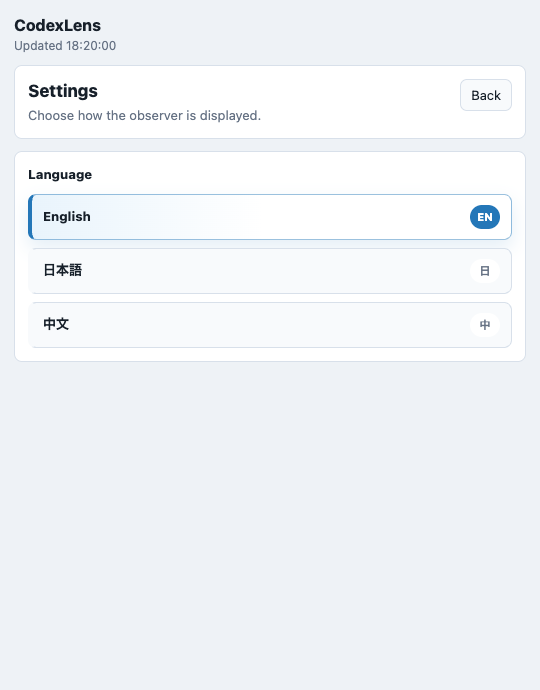
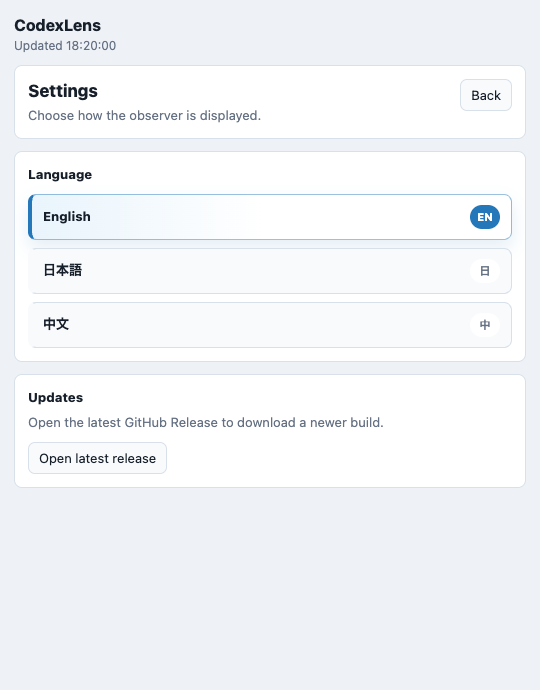
Support unsigned releases without Apple secrets

Changed region(s): [[0.0593, 0.5478, 0.7111, 0.6696]]

diff --git a/src/renderer/renderer.js b/src/renderer/renderer.js
@@ -33,6 +33,9 @@ const I18N = {
     settingsTitle: 'Settings',
     settingsDescription: 'Choose how the observer is displayed.',
     languageTitle: 'Language',
+    updatesTitle: 'Updates',
+    updatesDescription: 'Open the latest GitHub Release to download a newer build.',
+    openLatestRelease: 'Open latest release',
     back: 'Back',
     status: 'Status',
     job: 'Job',
@@ -79,6 +82,9 @@ const I18N = {
     settingsTitle: '設定',
     settingsDescription: 'Observerの表示方法を選択します。',
     languageTitle: '言語',
+    updatesTitle: 'アップデート',
+    updatesDescription: '最新版を入れる場合はGitHub Releaseを開いてダウンロードしてください。',
+    openLatestRelease: '最新版Releaseを開く',
     back: '戻る',
     status: '状態',
     job: 'ジョブ',
@@ -125,6 +131,9 @@ const I18N = {
     settingsTitle: '设置',
     settingsDescription: '选择观察器的显示方式。',
     languageTitle: '语言',
+    updatesTitle: '更新',
+    updatesDescription: '打开最新的 GitHub Release 下载新版构建。',
+    openLatestRelease: '打开最新 Release',
     back: '返回',
     status: '状态',
     job: '任务',
@@ -215,6 +224,7 @@ const elements = {
   backToRuns: document.getElementById('back-to-runs'),
   appViews: Array.from(document.querySelectorAll('.app-view')),
   settingsView: document.getElementById('settings-view'),
+  openLatestRelease: document.getElementById('open-latest-release'),
   filterButtons: Array.from(document.querySelectorAll('.filter-button')),
   runFilter: document.getElementById('run-filter'),
   languageButtons: Array.from(document.querySelectorAll('.language-button'))
@@ -532,6 +542,9 @@ elements.settings.addEventListener('click', () => {
 elements.backToRuns.addEventListener('click', () => {
   currentView = 'runs';
   render();
+});
+elements.openLatestRelease.addEventListener('click', () => {
+  window.observer.openLatestRelease();
 });
 for (const button of elements.filterButtons) {
   button.addEventListener('click', () => {

diff --git a/src/main.js b/src/main.js
@@ -7,6 +7,7 @@ const { getSnapshot } = require('./observer');
 
 const APP_NAME = 'CodexLens';
 const TRAY_GUID = 'bfe88412-57a8-4122-b4dd-e66cc9d62c9c';
+const LATEST_RELEASE_URL = 'https://github.com/Yukhy/codexlens/releases/latest';
 
 let tray = null;
 let window = null;
@@ -78,6 +79,7 @@ function createTray() {
   tray.setToolTip(APP_NAME);
   tray.setContextMenu(Menu.buildFromTemplate([
     { label: `Show ${APP_NAME}`, click: toggleWindow },
+    { label: 'Check for Updates...', click: () => shell.openExternal(LATEST_RELEASE_URL) },
     { type: 'separator' },
     { role: 'quit' }
   ]));
@@ -95,6 +97,11 @@ ipcMain.handle('observer:openPath', async (_event, targetPath) => {
 ipcMain.handle('observer:showItemInFolder', async (_event, targetPath) => {
   if (!targetPath || typeof targetPath !== 'string') return { ok: false, error: 'Invalid path' };
   shell.showItemInFolder(targetPath);
+  return { ok: true };
+});
+
+ipcMain.handle('observer:openLatestRelease', async () => {
+  await shell.openExternal(LATEST_RELEASE_URL);
   return { ok: true };
 });
 

diff --git a/src/renderer/index.html b/src/renderer/index.html
@@ -70,6 +70,12 @@
             </button>
           </div>
         </div>
+
+        <div class="settings-section">
+          <h3 data-i18n="updatesTitle">Updates</h3>
+          <p class="settings-copy" data-i18n="updatesDescription">Open the latest GitHub Release to download a newer build.</p>
+          <button id="open-latest-release" class="secondary-button" type="button" data-i18n="openLatestRelease">Open latest release</button>
+        </div>
       </section>
     </main>
     <script src="./renderer.js"></script>

diff --git a/src/renderer/styles.css b/src/renderer/styles.css
@@ -505,6 +505,11 @@ p {
   font-weight: 760;
 }
 
+.settings-copy {
+  margin: 6px 0 10px;
+  color: var(--muted);
+}
+
 .language-options {
   display: grid;
   gap: 8px;

diff --git a/src/preload.js b/src/preload.js
@@ -5,5 +5,6 @@ const { contextBridge, ipcRenderer } = require('electron');
 contextBridge.exposeInMainWorld('observer', {
   getSnapshot: () => ipcRenderer.invoke('observer:getSnapshot'),
   openPath: (targetPath) => ipcRenderer.invoke('observer:openPath', targetPath),
-  showItemInFolder: (targetPath) => ipcRenderer.invoke('observer:showItemInFolder', targetPath)
+  showItemInFolder: (targetPath) => ipcRenderer.invoke('observer:showItemInFolder', targetPath),
+  openLatestRelease: () => ipcRenderer.invoke('observer:openLatestRelease')
 });

diff --git a/docs/distribution.md b/docs/distribution.md
@@ -4,7 +4,9 @@ This document describes how to ship CodexLens as a downloadable macOS app.
 
 ## Short Answer
 
-Apple Developer ID signing and notarization are not hard once the credentials exist. The first setup is the slow part:
+CodexLens can be released without Apple Developer secrets. The default release path publishes unsigned macOS DMG/ZIP artifacts from GitHub Actions.
+
+Optional Apple Developer ID signing and notarization can be added later. Once the credentials exist, the release workflow automatically switches to the signed path. The first setup is the slow part:
 
 1. Join the Apple Developer Program.
 2. Create and export a `Developer ID Application` certificate.
@@ -24,7 +26,7 @@ References:
 
 ## Local Unsigned Build
 
-Use this for packaging checks before touching Apple credentials:
+Use this for packaging checks and for Apple-secrets-free development:
 
 ```bash
 npm ci
@@ -34,7 +36,28 @@ npm run dist:mac:unsigned
 
 The generated app and installers are written to `release/`. This build is intentionally unsigned and not notarized.
 
-## GitHub Secrets
+## Release Without Apple Secrets
+
+No Apple secrets are required for the default release flow.
+
+Create a version tag:
+
+```bash
+git tag v0.1.0
+git push origin v0.1.0
+```
+
+The `Release` GitHub Action detects that Apple signing/notarization secrets are absent and runs:
+
+```bash
+npm run release:mac:unsigned -- --x64 --arm64
+```
+
+This publishes unsigned DMG/ZIP assets to GitHub Releases. Users may see macOS Gatekeeper warnings because the artifacts are not signed or notarized.
+
+## Optional Apple Secrets
+
+Only set these if you want signed and notarized releases later.
 
 Set these in `Settings -> Secrets and variables -> Actions`.
 
@@ -64,7 +87,7 @@ base64 -i "AuthKey_XXXXXXXXXX.p8" | tr -d '\n' | pbcopy
 
 Paste each copied value into the matching GitHub secret.
 
-## Release
+## Signed Release
 
 After the secrets are configured, create a version tag:
 
@@ -75,9 +98,28 @@ git push origin v0.1.0
 
 The `Release` GitHub Action runs tests, builds both Apple Silicon and Intel artifacts, signs them with Developer ID, notarizes them with Apple, staples the notarization ticket, and publishes the assets to GitHub Releases.
 
+If the signing secrets are incomplete, the workflow intentionally falls back to the unsigned release path instead of failing.
+
+## Updates
+
+CodexLens does not enable automatic in-app update installation for unsigned macOS builds.
+
+Reason: both Electron and electron-builder document that macOS automatic updates require a signed app. Unsigned builds can still publish release metadata, but the installed app should not rely on Squirrel.Mac/electron-updater to replace itself.
+
+Current behavior:
+
+- The app has a Settings button for opening the latest GitHub Release.
+- The menu bar context menu also includes `Check for Updates...`.
+- Users download and replace the app manually.
+
+Future signed behavior:
+
+- If Developer ID signing is added later, `electron-updater` can be introduced safely.
+- The existing `dmg` + `zip` targets and GitHub publish configuration are compatible with that future path.
+
 ## Verification
 
-After downloading a release asset, verify it on macOS:
+After downloading a signed release asset, verify it on macOS:
 
 ```bash
 codesign --verify --deep --strict --verbose=2 "/Applications/CodexLens.app"
@@ -102,8 +144,8 @@ brew install --cask codexlens
 
 ## 日本語メモ
 
-簡単かどうかで言うと、初回だけ面倒です。Apple Developer Program、Developer ID Application証明書、notarization用のApple IDまたはApp Store Connect API keyを用意し、GitHub Secretsに登録すれば、その後は `v*` タグをpushするだけで署名済みDMG/ZIPを公開できます。
+Apple Developer Programに入らなくても、未署名DMG/ZIPはGitHub Releasesへ公開できます。Secretsがない場合、Release workflowは失敗せず未署名リリースにフォールバックします。自動インストール型アップデートは署名済みmacOSアプリが前提なので、未署名運用では最新版Releaseを開く手動導線にしています。
 
 ## 中文备注
 
-整体流程不是每天都要手动做的工作。首次配置 Apple Developer Program、Developer ID Application 证书和 notarization 凭据比较麻烦；配置好 GitHub Secrets 后，推送 `v*` tag 即可自动生成签名并 notarize 的 macOS 发布包。
+即使不加入 Apple Developer Program，也可以通过 GitHub Releases 发布未签名的 DMG/ZIP。没有 Secrets 时，Release workflow 不会失败，而是回退到未签名发布。应用内自动安装更新在 macOS 上需要签名应用，因此未签名发布采用打开最新 GitHub Release 的手动更新方式。

diff --git a/README.md b/README.md
@@ -66,6 +66,8 @@ It does not:
 - inspect the private stdio pipe between Claude Code and `codex mcp-server`
 - modify Claude Code, Codex, MCP configuration, Git repositories, or session files
 
+CodexLens can open the latest GitHub Release in your browser when you click an update link. It does not perform background update checks.
+
 CodexLens may display Codex thread titles from `~/.codex/session_index.jsonl` when they are available, because those titles are useful for identifying a run. Avoid sharing screenshots if thread titles or local paths contain sensitive project names.
 
 ## Requirements
@@ -79,9 +81,9 @@ CodexLens may display Codex thread titles from `~/.codex/session_index.jsonl` wh
 
 ### Downloadable App
 
-The release pipeline is configured for Developer ID-signed and notarized macOS DMG/ZIP artifacts. After the first `v*` release is published, download the DMG from [GitHub Releases](https://github.com/Yukhy/codexlens/releases) and drag CodexLens to Applications.
+The release pipeline publishes unsigned macOS DMG/ZIP artifacts by default, with no Apple Developer secrets required. After the first `v*` release is published, download the DMG from [GitHub Releases](https://github.com/Yukhy/codexlens/releases) and drag CodexLens to Applications.
 
-Release maintainers can follow [Distribution](docs/distribution.md) for Apple Developer ID signing, notarization, and Homebrew cask preparation.
+If Apple Developer ID secrets are configured later, the same workflow switches to signed and notarized artifacts. Release maintainers can follow [Distribution](docs/distribution.md) for unsigned releases, optional signing, update behavior, and Homebrew cask preparation.
 
 ### From Source
 
@@ -113,7 +115,8 @@ npm start
 - Correlation is heuristic-based. CodexLens uses Codex thread ids, working directories, and timing to connect Claude Code tool calls with Codex rollout files.
 - If Codex rollout files do not update while official MCP is running, CodexLens can still show process/repo state but not detailed progress.
 - Subagent counts are only visible when Codex records distinguishable events in rollout files.
-- This is an early macOS-focused app. Signed releases are configured, but they require Apple Developer ID secrets before the first public DMG is published.
+- Default public releases are unsigned unless Apple Developer ID secrets are configured.
+- Automatic in-app update installation is not enabled for unsigned macOS builds. Use Settings or the menu bar context menu to open the latest GitHub Release.
 
 ## Project Structure
 
@@ -125,9 +128,9 @@ npm start
 - `src/cli.js` prints the same snapshot in the terminal.
 - `build/` contains the app icon and macOS signing entitlements.
 - `scripts/capture-screenshots.js` regenerates README screenshots with synthetic demo data.
-- `.github/workflows/release.yml` builds signed and notarized macOS releases from `v*` tags.
+- `.github/workflows/release.yml` builds macOS releases from `v*` tags. It publishes unsigned artifacts by default and switches to signed/notarized artifacts when Apple secrets are present.
 - `docs/assets/` contains screenshots used by this README.
-- `docs/distribution.md` explains Developer ID signing, notarization, and Homebrew cask preparation.
+- `docs/distribution.md` explains unsigned releases, optional Developer ID signing, update behavior, and Homebrew cask preparation.
 - `test/` covers the JSONL parsing, Claude Code extraction, Codex rollout parsing, and correlation logic.
 
 ## Keywords
@@ -211,6 +214,8 @@ CodexLensはローカル専用・読み取り専用です。
 - Claude Codeと `codex mcp-server` のprivate stdio pipeを覗かない
 - Claude Code、Codex、MCP設定、Gitリポジトリ、セッションファイルを変更しない
 
+アップデートリンクをクリックした場合、CodexLensはブラウザで最新GitHub Releaseを開けます。バックグラウンドでの更新確認は行いません。
+
 利用可能な場合、CodexLensは `~/.codex/session_index.jsonl` のCodexスレッドタイトルを表示することがあります。実行中のジョブを識別するためです。スレッドタイトルやローカルパスに機密プロジェクト名が含まれる場合は、スクリーンショット共有に注意してください。
 
 ## 必要環境
@@ -224,9 +229,9 @@ CodexLensはローカル専用・読み取り専用です。
 
 ### ダウンロード版
 
-Developer ID署名とnotarize済みのmacOS DMG/ZIPを作るリリースパイプラインを設定済みです。最初の `v*` リリース公開後は、[GitHub Releases](https://github.com/Yukhy/codexlens/releases) からDMGをダウンロードし、CodexLensをApplicationsへドラッグして使えます。
+Apple Developer Secretsなしで、未署名のmacOS DMG/ZIPを公開するリリースパイプラインを設定済みです。最初の `v*` リリース公開後は、[GitHub Releases](https://github.com/Yukhy/codexlens/releases) からDMGをダウンロードし、CodexLensをApplicationsへドラッグして使えます。
 
-リリース担当者向けのApple Developer ID署名、notarize、Homebrew cask準備は [Distribution](docs/distribution.md) を参照してください。
+将来Apple Developer IDのSecretsを設定した場合は、同じworkflowが署名/notarize済み成果物に切り替わります。未署名リリース、任意の署名、アップデート導線、Homebrew cask準備は [Distribution](docs/distribution.md) を参照してください。
 
 ### ソースから起動
 
@@ -258,7 +263,8 @@ npm start
 - 関連付けはヒューリスティックです。CodexLensはCodex thread id、作業ディレクトリ、時刻を使ってClaude Codeのツール呼び出しとCodex rolloutファイルを紐付けます。
 - 公式MCP実行中にCodex rolloutファイルが更新されない場合、プロセスやリポジトリ状態は表示できますが、詳細な進捗は表示できません。
 - サブエージェント数は、Codexがrolloutファイル内に区別可能なイベントを記録している場合に限って見えます。
-- まだ初期段階のmacOS向けアプリです。署名済みリリースの構成は追加済みですが、最初の公開DMGにはApple Developer IDのSecrets設定が必要です。
+- 公開リリースは、Apple Developer IDのSecretsを設定しない限り未署名です。
+- 未署名macOSビルドでは、アプリ内の自動インストール型アップデートは有効化していません。設定画面またはメニューバーのコンテキストメニューから最新GitHub Releaseを開いてください。
 
 ## プロジェクト構成
 
@@ -270,9 +276,9 @@ npm start
 - `src/cli.js`: 同じスナップショットをターミナルに出力
 - `build/`: アプリアイコンとmacOS署名用entitlements
 - `scripts/capture-screenshots.js`: 合成デモデータでREADME用スクリーンショットを再生成
-- `.github/workflows/release.yml`: `v*` タグから署名済み/notarize済みmacOSリリースを作成
+- `.github/workflows/release.yml`: `v*` タグからmacOSリリースを作成。通常は未署名、Apple Secretsがある場合は署名/notarize済みに切り替え
 - `docs/assets/`: READMEで使うスクリーンショット
-- `docs/distribution.md`: Developer ID署名、notarize、Homebrew cask準備の手順
+- `docs/distribution.md`: 未署名リリース、任意のDeveloper ID署名、アップデート導線、Homebrew cask準備の手順
 - `test/`: JSONLパース、Claude Code抽出、Codex rolloutパース、相関ロジックのテスト
 
 ## キーワード
@@ -356,6 +362,8 @@ CodexLens 是本地专用、只读工具。
 - 检查 Claude Code 和 `codex mcp-server` 之间的私有 stdio pipe
 - 修改 Claude Code、Codex、MCP 配置、Git 仓库或 session 文件
 
+点击更新链接时，CodexLens 可以在浏览器中打开最新的 GitHub Release。它不会在后台检查更新。
+
 如果可用，CodexLens 可能会显示 `~/.codex/session_index.jsonl` 中的 Codex thread title，因为这有助于识别任务。如果 thread title 或本地路径包含敏感项目名称，请谨慎分享截图。
 
 ## 环境要求
@@ -369,9 +377,9 @@ CodexLens 是本地专用、只读工具。
 
 ### 下载版
 
-项目已经配置了用于生成 Developer ID 签名并 notarize 的 macOS DMG/ZIP 发布流程。首次 `v*` release 发布后，可以从 [GitHub Releases](https://github.com/Yukhy/codexlens/releases) 下载 DMG，并将 CodexLens 拖到 Applications 中使用。
+项目已经配置了不需要 Apple Developer Secrets 的 macOS DMG/ZIP 发布流程，默认发布未签名构建。首次 `v*` release 发布后，可以从 [GitHub Releases](https://github.com/Yukhy/codexlens/releases) 下载 DMG，并将 CodexLens 拖到 Applications 中使用。
 
-维护发布流程时，可参考 [Distribution](docs/distribution.md) 了解 Apple Developer ID 签名、notarization 和 Homebrew cask 准备。
+如果以后配置 Apple Developer ID Secrets，同一 workflow 会切换为签名并 notarize 的构建。未签名发布、可选签名、更新方式和 Homebrew cask 准备请参考 [Distribution](docs/distribution.md)。
 
 ### 从源码运行
 
@@ -403,7 +411,8 @@ npm start
 - 关联逻辑是启发式的。CodexLens 使用 Codex thread id、工作目录和时间来关联 Claude Code tool call 与 Codex rollout 文件。
 - 如果官方 MCP 运行时 Codex rollout 文件没有更新，CodexLens 仍可显示进程/仓库状态，但无法显示详细进度。
 - 只有当 Codex 在 rollout 文件中记录了可区分事件时，才能看到 subagent 数量相关信息。
-- 这是早期的 macOS 版本。签名发布流程已经配置好，但首次公开 DMG 仍需要 Apple Developer ID Secrets。
+- 默认公开发布未签名，除非配置 Apple Developer ID Secrets。
+- 未签名的 macOS 构建不会启用应用内自动安装更新。可以从设置页或菜单栏右键菜单打开最新 GitHub Release。
 
 ## 项目结构
 
@@ -415,9 +424,9 @@ npm start
 - `src/cli.js`: 在终端输出同样的快照
 - `build/`: 应用图标和 macOS 签名 entitlements
 - `scripts/capture-screenshots.js`: 使用合成演示数据重新生成 README 截图
-- `.github/workflows/release.yml`: 从 `v*` tag 构建签名并 notarize 的 macOS release
+- `.github/workflows/release.yml`: 从 `v*` tag 构建 macOS release；默认未签名，存在 Apple Secrets 时切换为签名并 notarize
 - `docs/assets/`: README 使用的截图
-- `docs/distribution.md`: Developer ID 签名、notarization 和 Homebrew cask 准备说明
+- `docs/distribution.md`: 未签名发布、可选 Developer ID 签名、更新方式和 Homebrew cask 准备说明
 - `test/`: JSONL 解析、Claude Code 提取、Codex rollout 解析和关联逻辑测试
 
 ## 关键词